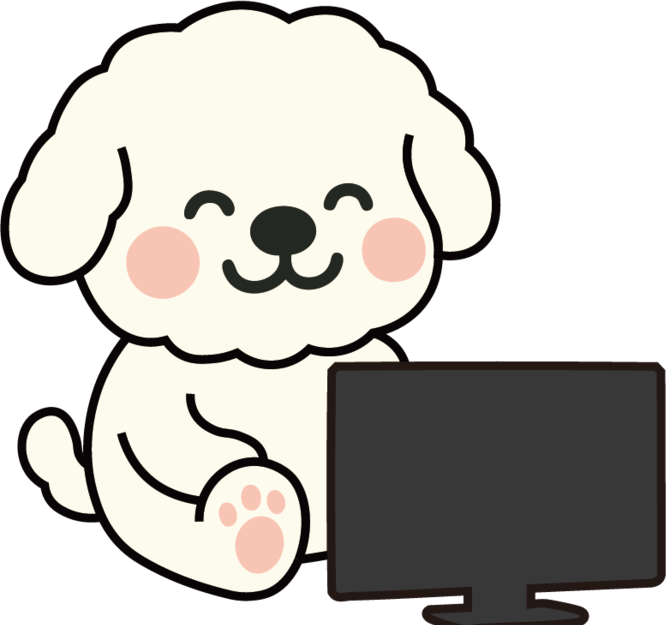
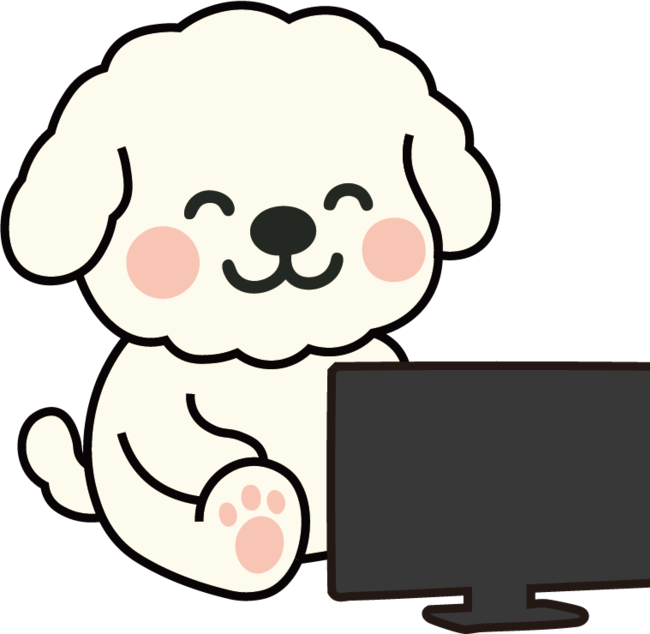
fix: update partnership card layout to side-by-side and fix relaxing mascot crop

diff --git a/src/styles.css b/src/styles.css
@@ -344,22 +344,24 @@ button {
 }
 
 .hero-art {
-  flex: 0 0 240px;
-  width: 240px;
-  height: 240px;
+  flex: 0 0 320px;
+  width: 320px;
+  height: 320px;
   border-radius: 50%;
   background: var(--color-yellow);
-  border: 3px solid var(--color-dark);
+  border: 3.5px solid var(--color-dark);
   box-shadow: 8px 8px 0 #FFF9EC;
-  display: grid;
-  place-items: center;
+  display: flex;
+  align-items: center;
+  justify-content: center;
   overflow: hidden;
   margin: 0 auto;
+  padding: 12px;
 }
 
 .hero-art img {
-  width: 85%;
-  height: 85%;
+  width: 100%;
+  height: 100%;
   object-fit: contain;
 }
 
@@ -568,14 +570,88 @@ button {
 
 .panel-partnership {
   display: flex;
-  flex-direction: column;
-  gap: 14px;
+  flex-direction: row;
+  align-items: stretch;
+  justify-content: space-between;
+  gap: 18px;
   padding: 24px;
   background: var(--color-dark);
   border: 3px solid var(--color-border);
   border-radius: var(--radius-card);
   color: #FFF9EC;
   box-shadow: var(--shadow-brutal);
+}
+
+.partnership-left {
+  flex: 1 1 auto;
+  display: flex;
+  flex-direction: column;
+  justify-content: space-between;
+  min-width: 0;
+}
+
+.partnership-title {
+  font-size: 19px;
+  font-weight: 900;
+  letter-spacing: -0.03em;
+  line-height: 1.3;
+  margin-top: 4px;
+}
+
+.partnership-bullets {
+  display: flex;
+  flex-direction: column;
+  gap: 8px;
+  margin: 12px 0 16px;
+}
+
+.partnership-bullet {
+  font-size: 12.5px;
+  font-weight: 600;
+  color: #E6DFCF;
+  line-height: 1.45;
+}
+
+.partnership-btn {
+  align-self: flex-start;
+  padding: 10px 18px;
+  border-radius: 999px;
+  background: var(--color-yellow);
+  color: var(--color-dark);
+  font-size: 13px;
+  font-weight: 800;
+  text-decoration: none;
+  white-space: nowrap;
+}
+
+.partnership-right {
+  flex: 0 0 140px;
+  width: 140px;
+  display: flex;
+  align-items: center;
+  justify-content: center;
+  border-radius: 16px;
+  overflow: hidden;
+  border: 2px solid rgba(255, 255, 255, 0.15);
+  background: #2A2A2A;
+}
+
+.partnership-right img {
+  width: 100%;
+  height: 100%;
+  object-fit: cover;
+}
+
+@media (max-width: 720px) {
+  .panel-partnership {
+    flex-direction: column;
+    gap: 16px;
+  }
+  .partnership-right {
+    width: 100%;
+    flex: 0 0 110px;
+    order: -1;
+  }
 }
 
 .price-item-row {
@@ -772,16 +848,21 @@ button {
 }
 
 .game-tag-box {
-  width: 44px;
-  height: 44px;
+  width: auto;
+  min-width: 48px;
+  height: 38px;
+  padding: 0 8px;
   flex-shrink: 0;
-  border-radius: 12px;
+  border-radius: 10px;
   background: var(--color-yellow-light);
   border: 2px solid var(--color-border);
-  display: grid;
-  place-items: center;
-  font-size: 13px;
+  display: flex;
+  align-items: center;
+  justify-content: center;
+  font-size: 11px;
   font-weight: 900;
+  letter-spacing: -0.01em;
+  white-space: nowrap;
 }
 
 .game-title-kr {
@@ -855,6 +936,7 @@ button {
   display: grid;
   grid-template-columns: 1fr 1fr;
   gap: 16px;
+  align-items: stretch;
 }
 
 .poster-box {
@@ -863,10 +945,18 @@ button {
   overflow: hidden;
   background: #ffffff;
   box-shadow: var(--shadow-brutal);
+  aspect-ratio: 16 / 10;
+  width: 100%;
+  height: 100%;
+  display: flex;
+  align-items: center;
+  justify-content: center;
 }
 
 .poster-box img {
   width: 100%;
+  height: 100%;
+  object-fit: cover;
   display: block;
 }
 

diff --git a/src/features/customer/HomePage.tsx b/src/features/customer/HomePage.tsx
@@ -7,6 +7,7 @@ import massageMascot from '../../assets/mascot_massage.png';
 import storePhoto1 from '../../assets/store_photo_043.jpg';
 import storePhoto2 from '../../assets/store_photo_049.jpg';
 import storePhoto3 from '../../assets/store_photo_03.jpg';
+import snuBanner from '../../assets/snu_partnership_banner.png';
 
 import { loadNewArrivals } from '../book-search/catalogueRepository';
 import type { SearchableBook } from '../../lib/bookSearch';
@@ -211,30 +212,28 @@ export function HomePage() {
 
         {/* 제휴 안내 */}
         <div className="panel-partnership">
-          <div className="section-kicker" style={{ color: '#FED943' }}>PARTNERSHIP</div>
-          <h3 style={{ fontSize: '20px', fontWeight: 900, letterSpacing: '-0.03em', lineHeight: 1.25 }}>
-            2026 서울대학교<br />단과대학생회장연석회의 공식 제휴
-          </h3>
-          <div style={{ display: 'flex', flexDirection: 'column', gap: '8px' }}>
-            <div className="partnership-bullet">· 패키지 요금제 10% 현장 즉시 할인</div>
-            <div className="partnership-bullet">· 평일 종일권 결제 시 음료 무료 사이즈업/업그레이드</div>
-            <div className="partnership-bullet">· 학생증 실물 또는 모바일 학생증 제시 필수</div>
+          <div className="partnership-left">
+            <div>
+              <div className="section-kicker" style={{ color: '#FED943' }}>PARTNERSHIP</div>
+              <h3 className="partnership-title">
+                2026 서울대학교<br />단과대학생회장연석회의 공식 제휴
+              </h3>
+              <div className="partnership-bullets">
+                <div className="partnership-bullet">· 패키지 요금제 10% 현장 즉시 할인</div>
+                <div className="partnership-bullet">· 평일 종일권 결제 시 음료 무료 사이즈업/업그레이드</div>
+                <div className="partnership-bullet">· 학생증 실물 또는 모바일 학생증 제시 필수</div>
+              </div>
+            </div>
+            <a
+              href="/events"
+              className="partnership-btn"
+            >
+              제휴 혜택 자세히 →
+            </a>
           </div>
-          <a
-            href="/events"
-            style={{
-              alignSelf: 'flex-start',
-              marginTop: 'auto',
-              padding: '11px 18px',
-              borderRadius: '999px',
-              background: '#FED943',
-              color: '#1E1E1E',
-              fontSize: '13px',
-              fontWeight: 800,
-            }}
-          >
-            제휴 혜택 자세히 →
-          </a>
+          <div className="partnership-right">
+            <img src={snuBanner} alt="서울대학교 공식 제휴 배너" />
+          </div>
         </div>
       </section>
 
